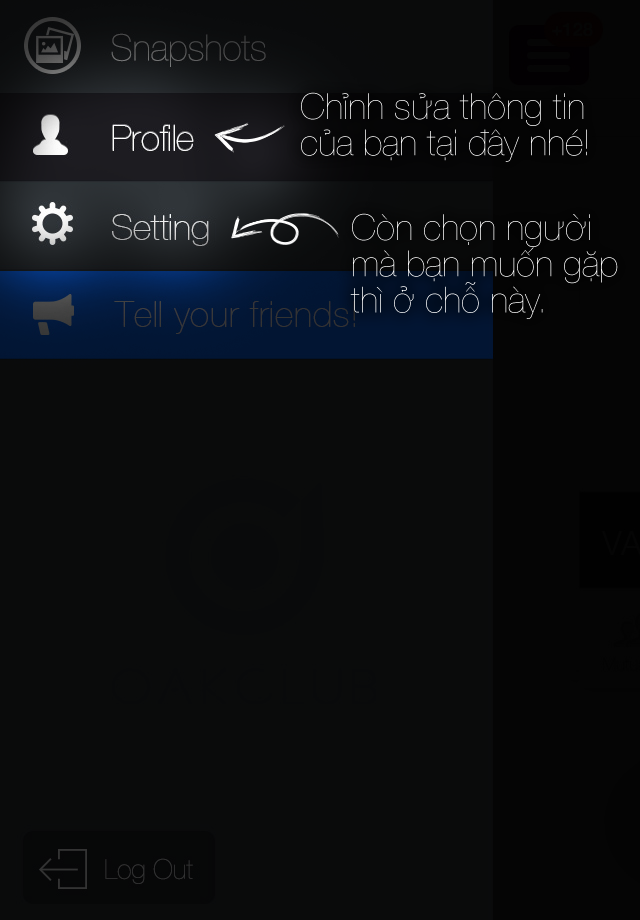
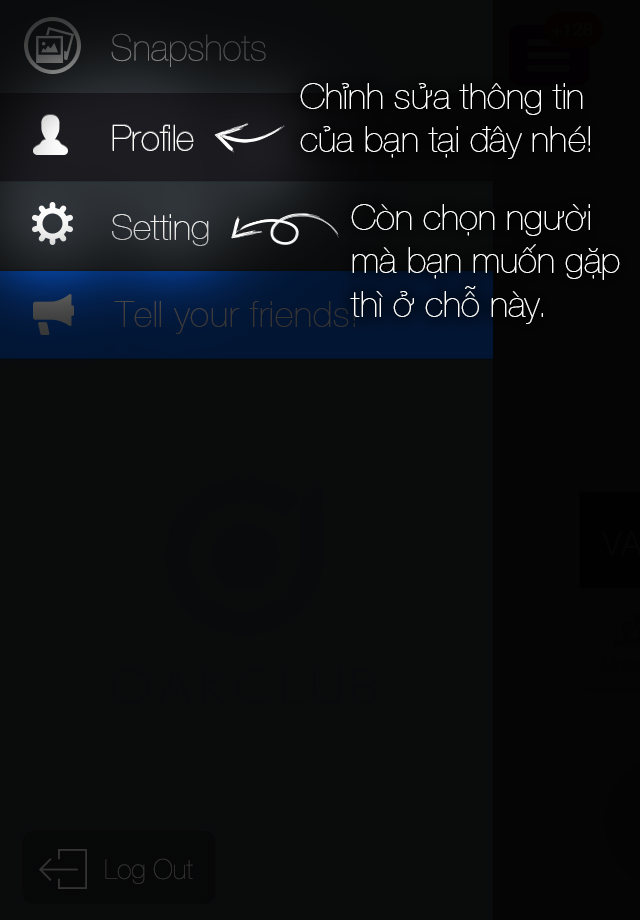
* fix bug content of tutorial in VI is not correct. * fix bug messy up position of Splash screen, Sign in screen, Snapshot in iOS7.

Changed region(s): [[0.5312, 0.213, 0.9688, 0.3652], [0.4688, 0.0913, 0.9375, 0.1826]]

diff --git a/oakclubbuild/VCSimpleSnapshot.m b/oakclubbuild/VCSimpleSnapshot.m
@@ -460,7 +460,10 @@ CGFloat pageHeight;
     [self.view sendSubviewToBack:self.moveMeView];
     [UIView animateWithDuration:0.4
                      animations:^{
-                         self.controlView.frame = CGRectMake(0, -46, 320, 50);// its final location
+                         if(IS_OS_7_OR_LATER)
+                             self.controlView.frame = CGRectMake(0, -40, 320, 50);// its final location
+                         else
+                             self.controlView.frame = CGRectMake(0, -46, 320, 50);// its final location
                      } completion:^(BOOL finished){
                          
                          [self.view bringSubviewToFront:self.moveMeView];
@@ -627,8 +630,6 @@ CGFloat pageHeight;
 }
 #pragma mark LOADING - animation
 -(void)startLoadingAnim{
-//    [self.spinner startAnimating];
-//    [self disableAllControl:YES];
     loadingView = [[VCSimpleSnapshotLoading alloc]init];
     [loadingView setTypeOfAlert:0 andAnim:loadingAnim];
     isLoading = YES;
@@ -636,8 +637,6 @@ CGFloat pageHeight;
 }
 
 -(void)startDisabledGPS{
-    //    [self.spinner startAnimating];
-    //    [self disableAllControl:YES];
     loadingView = [[VCSimpleSnapshotLoading alloc]init];
     [loadingView setTypeOfAlert:2 andAnim:nil];
     [self.navigationController pushViewController:loadingView animated:NO];

diff --git a/oakclubbuild/PKRevealControllerContainerView.m b/oakclubbuild/PKRevealControllerContainerView.m
@@ -11,7 +11,7 @@
  */
 
 #import "PKRevealControllerContainerView.h"
-
+#import "Define.h"
 @interface PKRevealControllerContainerView()
 
 #pragma mark - Properties
@@ -52,7 +52,12 @@
     UIBezierPath *shadowPath = [UIBezierPath bezierPathWithRect:self.bounds];
     self.layer.masksToBounds = NO;
     self.layer.shadowColor = [UIColor blackColor].CGColor;
-    self.layer.shadowOffset = CGSizeMake(0.0f, 0.0f);
+    if (IS_OS_7_OR_LATER) {
+        self.layer.shadowOffset = CGSizeMake(0.0f, 20.0f);
+    }
+    else{
+        self.layer.shadowOffset = CGSizeMake(0.0f, 0.0f);
+    }
     self.layer.shadowOpacity = 0.5f;
     self.layer.shadowRadius = 2.5f;
     self.layer.shadowPath = shadowPath.CGPath;

diff --git a/oakclubbuild/menuViewController.m b/oakclubbuild/menuViewController.m
@@ -38,7 +38,12 @@
 - (id)initWithNibName:(NSString *)nibNameOrNil bundle:(NSBundle *)nibBundleOrNil
 {
     self = [super initWithNibName:nibNameOrNil bundle:nibBundleOrNil];
-//    if(!IS_HEIGHT_GTE_568){
+    [[UIApplication sharedApplication] setStatusBarStyle:UIStatusBarStyleBlackTranslucent
+                                                animated:NO];
+//    if(IS_OS_7_OR_LATER){
+//        [self.view setFrame:[[UIScreen mainScreen]applicationFrame]];
+//    }
+//    else{
         [self.view setFrame:[[UIScreen mainScreen]applicationFrame]];
 //    }
     

diff --git a/oakclubbuild/TutorialViewController.m b/oakclubbuild/TutorialViewController.m
@@ -63,7 +63,7 @@
     CGRect mainFrame = [[UIScreen mainScreen]applicationFrame];
     CycleScrollView *cycle;
     if(IS_OS_7_OR_LATER){
-        cycle = [[CycleScrollView alloc] initWithFrame:CGRectMake(0, 10, mainFrame.size.width, mainFrame.size.height)
+        cycle = [[CycleScrollView alloc] initWithFrame:CGRectMake(0, 5, mainFrame.size.width, mainFrame.size.height + 10)
                                         cycleDirection:CycleDirectionLandscape
                                               pictures:pageImages];
     }

diff --git a/oakclubbuild/ScrollViewImage/CycleScrollView.m b/oakclubbuild/ScrollViewImage/CycleScrollView.m
@@ -24,7 +24,7 @@ float timerDuration = 8.0f;
         imagesArray = [[NSArray alloc] initWithArray:pictureArray];
         
         scrollView = [[UIScrollView alloc] initWithFrame:frame];
-        scrollView.backgroundColor = [UIColor blackColor];
+        scrollView.backgroundColor = [UIColor whiteColor];
         scrollView.showsHorizontalScrollIndicator = NO;
         scrollView.showsVerticalScrollIndicator = NO;
         scrollView.pagingEnabled = YES;

diff --git a/oakclubbuild/NavBarOakClub.m b/oakclubbuild/NavBarOakClub.m
@@ -25,7 +25,7 @@
 {
     NSArray *array = [[NSBundle mainBundle] loadNibNamed:@"NavBarOakClub" owner:self options:nil];
     self = [array objectAtIndex:0];
-    [self setBackgroundImage:[UIImage imageNamed:@"topbar"] forBarMetrics:UIBarMetricsDefault];
+//    [self setBackgroundImage:[UIImage imageNamed:@"topbar"] forBarMetrics:UIBarMetricsDefault];
     
     UIView *view = [array objectAtIndex:1];
     

diff --git a/oakclubbuild/SCLoginViewController.m b/oakclubbuild/SCLoginViewController.m
@@ -82,6 +82,7 @@
         
     }
     cycle.delegate = self;
+    [cycle setBackgroundColor:[UIColor whiteColor]];
     [cycle refreshScrollView];
 //    cycle.autoresizingMask = (UIViewAutoresizingFlexibleTopMargin |
 //                                                          UIViewAutoresizingFlexibleLeftMargin |

diff --git a/oakclubbuild/FlashIntro.m b/oakclubbuild/FlashIntro.m
@@ -51,7 +51,7 @@
     [background setContentMode:UIViewContentModeScaleAspectFit];
     [self.view addSubview:background];
     
-    [self.view setBackgroundColor:[UIColor blackColor]];
+    [self.view setBackgroundColor:[UIColor whiteColor]];
 }
 
 - (void)viewDidAppear:(BOOL)animated

diff --git a/oakclubbuild/Define.h b/oakclubbuild/Define.h
@@ -12,8 +12,8 @@
 
 //demo version FLAG
 #define ENABLE_DEMO true
-#define USE_STAGING true
-#define USE_MAINHOST false
+#define USE_STAGING false
+#define USE_MAINHOST true
 #define USE_STAGING_MB false
 #define USE_STAGING_IOS false
 //Hangout

diff --git a/oakclubbuild/AppDelegate.h b/oakclubbuild/AppDelegate.h
@@ -9,7 +9,7 @@
 #import <UIKit/UIKit.h>
 #import <FacebookSDK/FacebookSDK.h>
 #import "SCLoginViewController.h"
-#import "DDMenuController.h"
+//#import "DDMenuController.h"
 #import "menuViewController.h"
 
 #import "VCChat.h"
